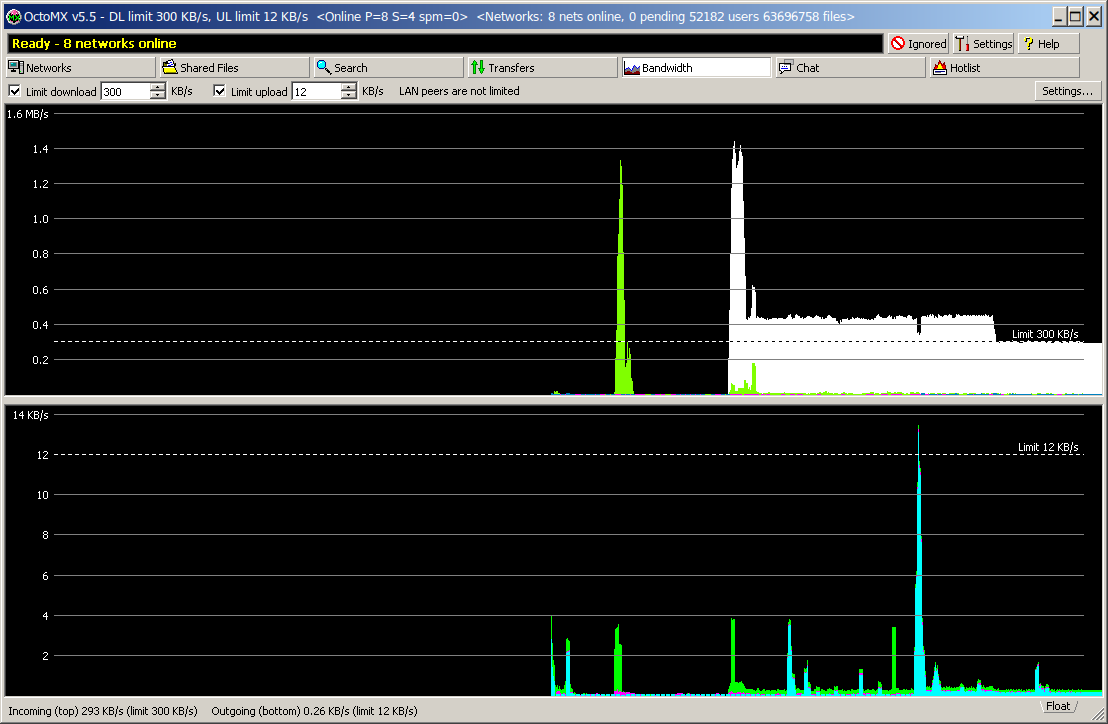
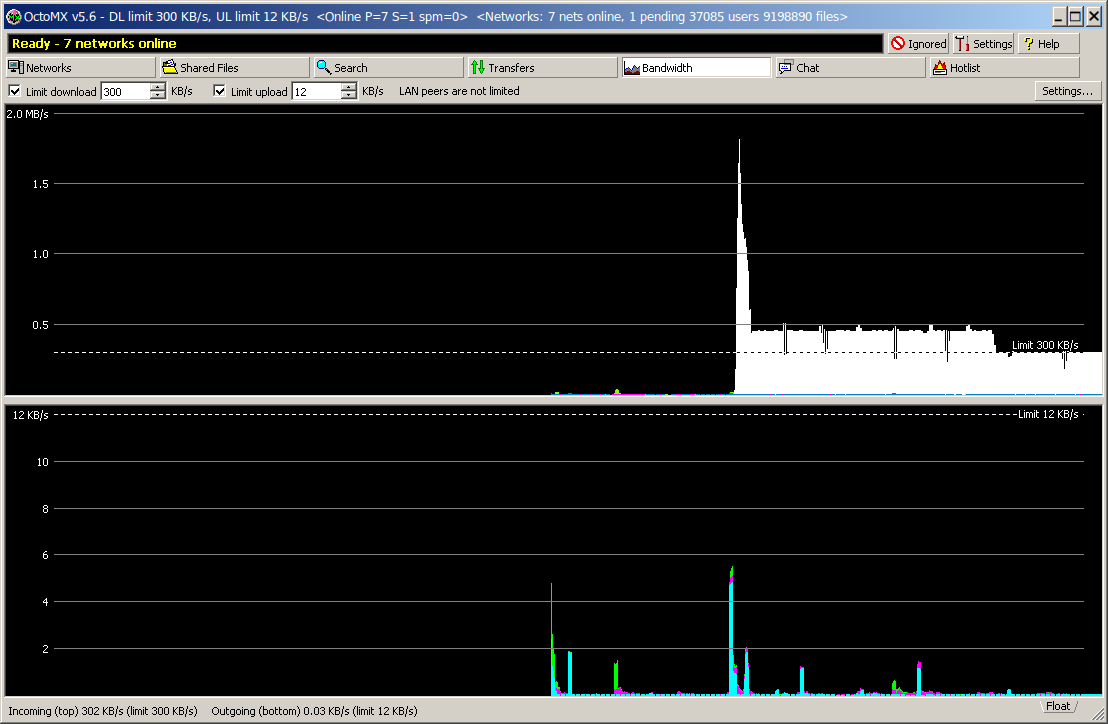
OctoMX 5.6: version and README pictures

diff --git a/src/ui/update_ui.h b/src/ui/update_ui.h
@@ -7,9 +7,9 @@
 // at most once a day unless updates/mode is "off", stays quiet unless a newer version that was not
 // skipped exists, and logs one line otherwise. What a newer release does depends on updates/mode:
 //   auto   (default) download it quietly, check the signature, unpack and check it next to the
-//          program, then the box "OctoMX 5.6 is ready to install" with Restart Now / Later / Skip
+//          program, then the box "OctoMX 5.7 is ready to install" with Restart Now / Later / Skip
 //          This Version (Later: installed when OctoMX is closed, a tray balloon says so once)
-//   ask    the box "OctoMX 5.6 is available" with Update Now (progress bar, then the same restart
+//   ask    the box "OctoMX 5.7 is available" with Update Now (progress bar, then the same restart
 //          question) / Remind Me Later / Skip This Version and the download page as a link
 //   notify the classic message box: Open Download Page / Remind Me Later / Skip This Version
 //   off    no check at start; Help ▸ Check for Updates... still asks
@@ -19,7 +19,7 @@
 // The install itself runs when OctoMX closes (finishOnExit(), called by main.cpp after the core has
 // shut down); after Restart Now the new version is started with the same options. At the next start
 // startupRecovery() finishes or undoes an interrupted swap and removes the old files; the first
-// start after an update shows "Updated to OctoMX 5.6" with a What's New link.
+// start after an update shows "Updated to OctoMX 5.7" with a What's New link.
 //
 // Network policy (tests and scripted runs never contact GitHub): the app sets On for a real core with
 // a user profile, IfUrlSet for a test or scripted run (MX_OS_ROOT is set), Off for
@@ -63,8 +63,8 @@ public:
     enum class State { Idle, Checking, Downloading, Preparing, Ready };
     struct Offer {
         Kind kind = Kind::Notify;
-        QString version;   // "5.6"
-        QString current;   // "5.5"
+        QString version;   // "5.7"
+        QString current;   // "5.6"
         QString notes;     // plain text excerpt
         QString pageUrl;   // what Open Download Page / What's New opens
         QString reason;    // why there is no automatic install (Notify), empty otherwise
@@ -88,11 +88,11 @@ public:
     bool startCheckDue() const;
     void scheduleStartCheck(int delayMs = -1);
     bool isChecking() const;
-    QString currentVersion() const;   // MX_VERSION_FULL, e.g. "5.5.0"
+    QString currentVersion() const;   // MX_VERSION_FULL, e.g. "5.6.0"
     QString mode() const;             // updates/mode: auto | ask | notify | off
     State state() const { return m_state; }
     QString readyVersion() const;     // the prepared update (State::Ready)
-    // one line for the About box: "OctoMX 5.5 is up to date" / "OctoMX 5.6 is available" / ...
+    // one line for the About box: "OctoMX 5.6 is up to date" / "OctoMX 5.7 is available" / ...
     QString statusLine() const;
 
     // show what a check with this answer would show (manual = the answers of Help ▸ Check for

diff --git a/src/ui/dialogs/about_dialog.cpp b/src/ui/dialogs/about_dialog.cpp
@@ -46,7 +46,7 @@ AboutDialog::AboutDialog(mx::Core *core, QWidget *parent) : QDialog(parent)
                            core->isMock() ? tr("\nDemo mode: no network connections are made.") : QString()));
     info->setObjectName(QStringLiteral("aboutText"));
     info->setGeometry(SR(56, 30, 450, 106));
-    // [upd-1] what the update check found, right of the title: "OctoMX 5.5 is up to date." / "... 5.6 is available ..."
+    // [upd-1] what the update check found, right of the title: "OctoMX 5.6 is up to date." / "... 5.7 is available ..."
     if (UpdateController *u = UpdateController::of(qobject_cast<MainWindow *>(parent))) {
         auto *upd = new QLabel(u->statusLine(), this);
         upd->setObjectName(QStringLiteral("aboutUpdateStatus"));

diff --git a/src/api/mx/types.h b/src/api/mx/types.h
@@ -16,10 +16,10 @@
 // [post-1] defined by the top-level CMakeLists.txt from project(OctoMX VERSION ...); these
 // fallbacks only serve a build without it
 #ifndef MX_VERSION_FULL
-#define MX_VERSION_FULL "5.5.0"
+#define MX_VERSION_FULL "5.6.0"
 #endif
 #ifndef MX_VERSION_STRING
-#define MX_VERSION_STRING "5.5"
+#define MX_VERSION_STRING "5.6"
 #endif
 
 namespace mx {

diff --git a/docs/UI_SPEC.md b/docs/UI_SPEC.md
@@ -1473,7 +1473,7 @@ Fidelity checks must treat these as intentional (the classic forms stay reachabl
   "Load Standard ... Defaults" buttons choose the theme and reset every colour.
 * **Help button** [post-1]: a click pops a small menu `About OctoMX...` (bold default) / `Check for
   Updates...` (F1 still opens About directly); the About box has `Check for Updates...` left of OK.
-  The update box is a classic message box titled `OctoMX`: "OctoMX 5.6 is available (you have 5.5)."
+  The update box is a classic message box titled `OctoMX`: "OctoMX 5.7 is available (you have 5.6)."
   with the first lines of the release notes as plain text and `Open Download Page` / `Remind Me Later`
   / `Skip This Version`. Settings ▸ Miscellaneous ▸ System Integration has an `Updates` group with
   "Check for a new version at start (at most once a day)" (updates/checkAtStart, default on).
@@ -1485,19 +1485,19 @@ Fidelity checks must treat these as intentional (the classic forms stay reachabl
   downloading a new version` (ask) / `Only tell me, I install it myself` (notify, the classic box) / `Do
   not check at start` (off). A profile with the earlier check box off gets `off` (migrated once).
   auto: the start check downloads a newer signed release quietly, then a small box titled `OctoMX`
-  (information icon, plain text) says "OctoMX 5.6 is ready to install (you have 5.5)." with the
+  (information icon, plain text) says "OctoMX 5.7 is ready to install (you have 5.6)." with the
   first lines of the release notes, "The download was checked against the OctoMX release
   signature.", with running downloads "Your 3 running downloads continue after the restart.", and
   `Restart Now` (default) / `Later` / `Skip This Version`; Later (also Escape or the close button)
   installs it when OctoMX is closed and a tray balloon says so once. ask, and always for Help ▸ Check
-  for Updates...: "OctoMX 5.6 is available (you have 5.5)." with `Update Now` (a box with a progress
+  for Updates...: "OctoMX 5.7 is available (you have 5.6)." with `Update Now` (a box with a progress
   bar, `Hide` / `Cancel`, then the ready box) / `Remind Me Later` / `Skip This Version` and `Open
   Download Page` as a link below the text. When the program cannot install a release itself (not a
   published package, a folder it cannot write, a release without signature, a download or check that
   failed), the classic box appears with the reason above the last line. The first start after an update
-  shows "Updated to OctoMX 5.6 (from 5.5)." with `What's New` (the release page) / `OK`. The About
-  box has one line under the description: "OctoMX 5.5 is up to date." / "OctoMX 5.6 is available
-  (you have 5.5)." / "... is ready to install ..." / "..., not checked for updates yet.".
+  shows "Updated to OctoMX 5.7 (from 5.6)." with `What's New` (the release page) / `OK`. The About
+  box has one line under the description: "OctoMX 5.6 is up to date." / "OctoMX 5.7 is available
+  (you have 5.6)." / "... is ready to install ..." / "..., not checked for updates yet.".
   Deviations: these boxes are not part of WinMX 3.53 (it had no updater); they are drawn as classic
   message boxes with our own buttons. Deliberate choices: the staging folder is inside the program
   folder (`.new-<version>`, same volume, only the program folder must be writable) instead of next
@@ -1710,7 +1710,7 @@ Fidelity checks must treat these as intentional (the classic forms stay reachabl
   BitTorrent piece hashes)`. With the setting `search/mergeByNameAndSize` off (default on), only plain
   files with equal normalised names merge (a bundle never meets a non-bundle).
 * **The name OctoMX** [ren-1] (owner: "as a name I choose OctoMX"; "OctoMX is the only version and
-  name we use"): every place where the program names itself says OctoMX (title `OctoMX v5.5`,
+  name we use"): every place where the program names itself says OctoMX (title `OctoMX v5.6`,
   `About OctoMX...`, `Exit OctoMX`, message box titles, the `OctoMX Peer Network` tabs and pages, the
   network name `OctoMX` in the Network columns, the default room `OctoMX Lobby`). Where it describes
   itself it says that its interface is in the style of the classic WinMX, with the statement that it

diff --git a/README.md b/README.md
@@ -21,6 +21,9 @@ chat rooms, hotlist, the lot), plugged into the networks that are alive today.
 * **Verify File, Restart Download.** A finished or paused download can be checked again on the
   disk (right-click it, Verify File): only the blocks that are damaged are downloaded again, the
   file stays where it is. Restart Download throws away what was received and starts from zero.
+* **Careful with your files.** Closing waits until every download is written to the disk, an
+  update never interrupts a write, and after a crash or a power cut the unfinished downloads are
+  checked before they continue.
 * **Its own network for the social part.** Chat rooms, private messages, browsing a friend's
   shared files and direct transfers run over a new, serverless OctoMX peer network.
 * **Looks like 2001, runs on 2026 hardware.** Native Qt 6 application for Windows 10/11 and
@@ -39,7 +42,7 @@ responsibility; the authors are not responsible for the content exchanged with i
 start the program asks you to accept these terms before it connects to any network. See
 [Legal](#legal).
 
-Version 5.5 for Windows 10/11 (64-bit), Linux (x86_64) and macOS 14.4 or newer. Project page:
+Version 5.6 for Windows 10/11 (64-bit), Linux (x86_64) and macOS 14.4 or newer. Project page:
 https://github.com/robtacconelli/OctoMX
 
 > **Licence:** OctoMX is free software under the **GNU General Public License v3.0 or later**
@@ -91,9 +94,9 @@ built-in demo data:
 
 | | |
 |---|---|
-| **Windows** | Unzip `OctoMX-5.5-win64.zip` anywhere and double-click `octomx.exe`. Nothing is installed. Windows Firewall may ask whether OctoMX may accept connections. |
-| **Linux** | `tar xf OctoMX-5.5-linux-x86_64.tar.xz` and run `OctoMX-5.5-linux-x86_64/octomx`. Qt does not need to be installed. Run `./install-desktop-entry.sh` once for a menu entry and icon. |
-| **macOS** | Unzip `OctoMX-5.5-macos-universal.zip` (one app for Apple Silicon and Intel Macs, macOS 14.4 or newer) and drag `OctoMX.app` into Applications. The first time, right-click `OctoMX.app` and choose **Open**, then **Open** again (on macOS 15: System Settings > Privacy & Security > **Open Anyway**): the app has no Apple Developer ID signature. `README-mac.txt` in the archive has the details. |
+| **Windows** | Unzip `OctoMX-5.6-win64.zip` anywhere and double-click `octomx.exe`. Nothing is installed. Windows Firewall may ask whether OctoMX may accept connections. |
+| **Linux** | `tar xf OctoMX-5.6-linux-x86_64.tar.xz` and run `OctoMX-5.6-linux-x86_64/octomx`. Qt does not need to be installed. Run `./install-desktop-entry.sh` once for a menu entry and icon. |
+| **macOS** | Unzip `OctoMX-5.6-macos-universal.zip` (one app for Apple Silicon and Intel Macs, macOS 14.4 or newer) and drag `OctoMX.app` into Applications. The first time, right-click `OctoMX.app` and choose **Open**, then **Open** again (on macOS 15: System Settings > Privacy & Security > **Open Anyway**): the app has no Apple Developer ID signature. `README-mac.txt` in the archive has the details. |
 
 `SHA256SUMS` next to the archives has their checksums.
 
